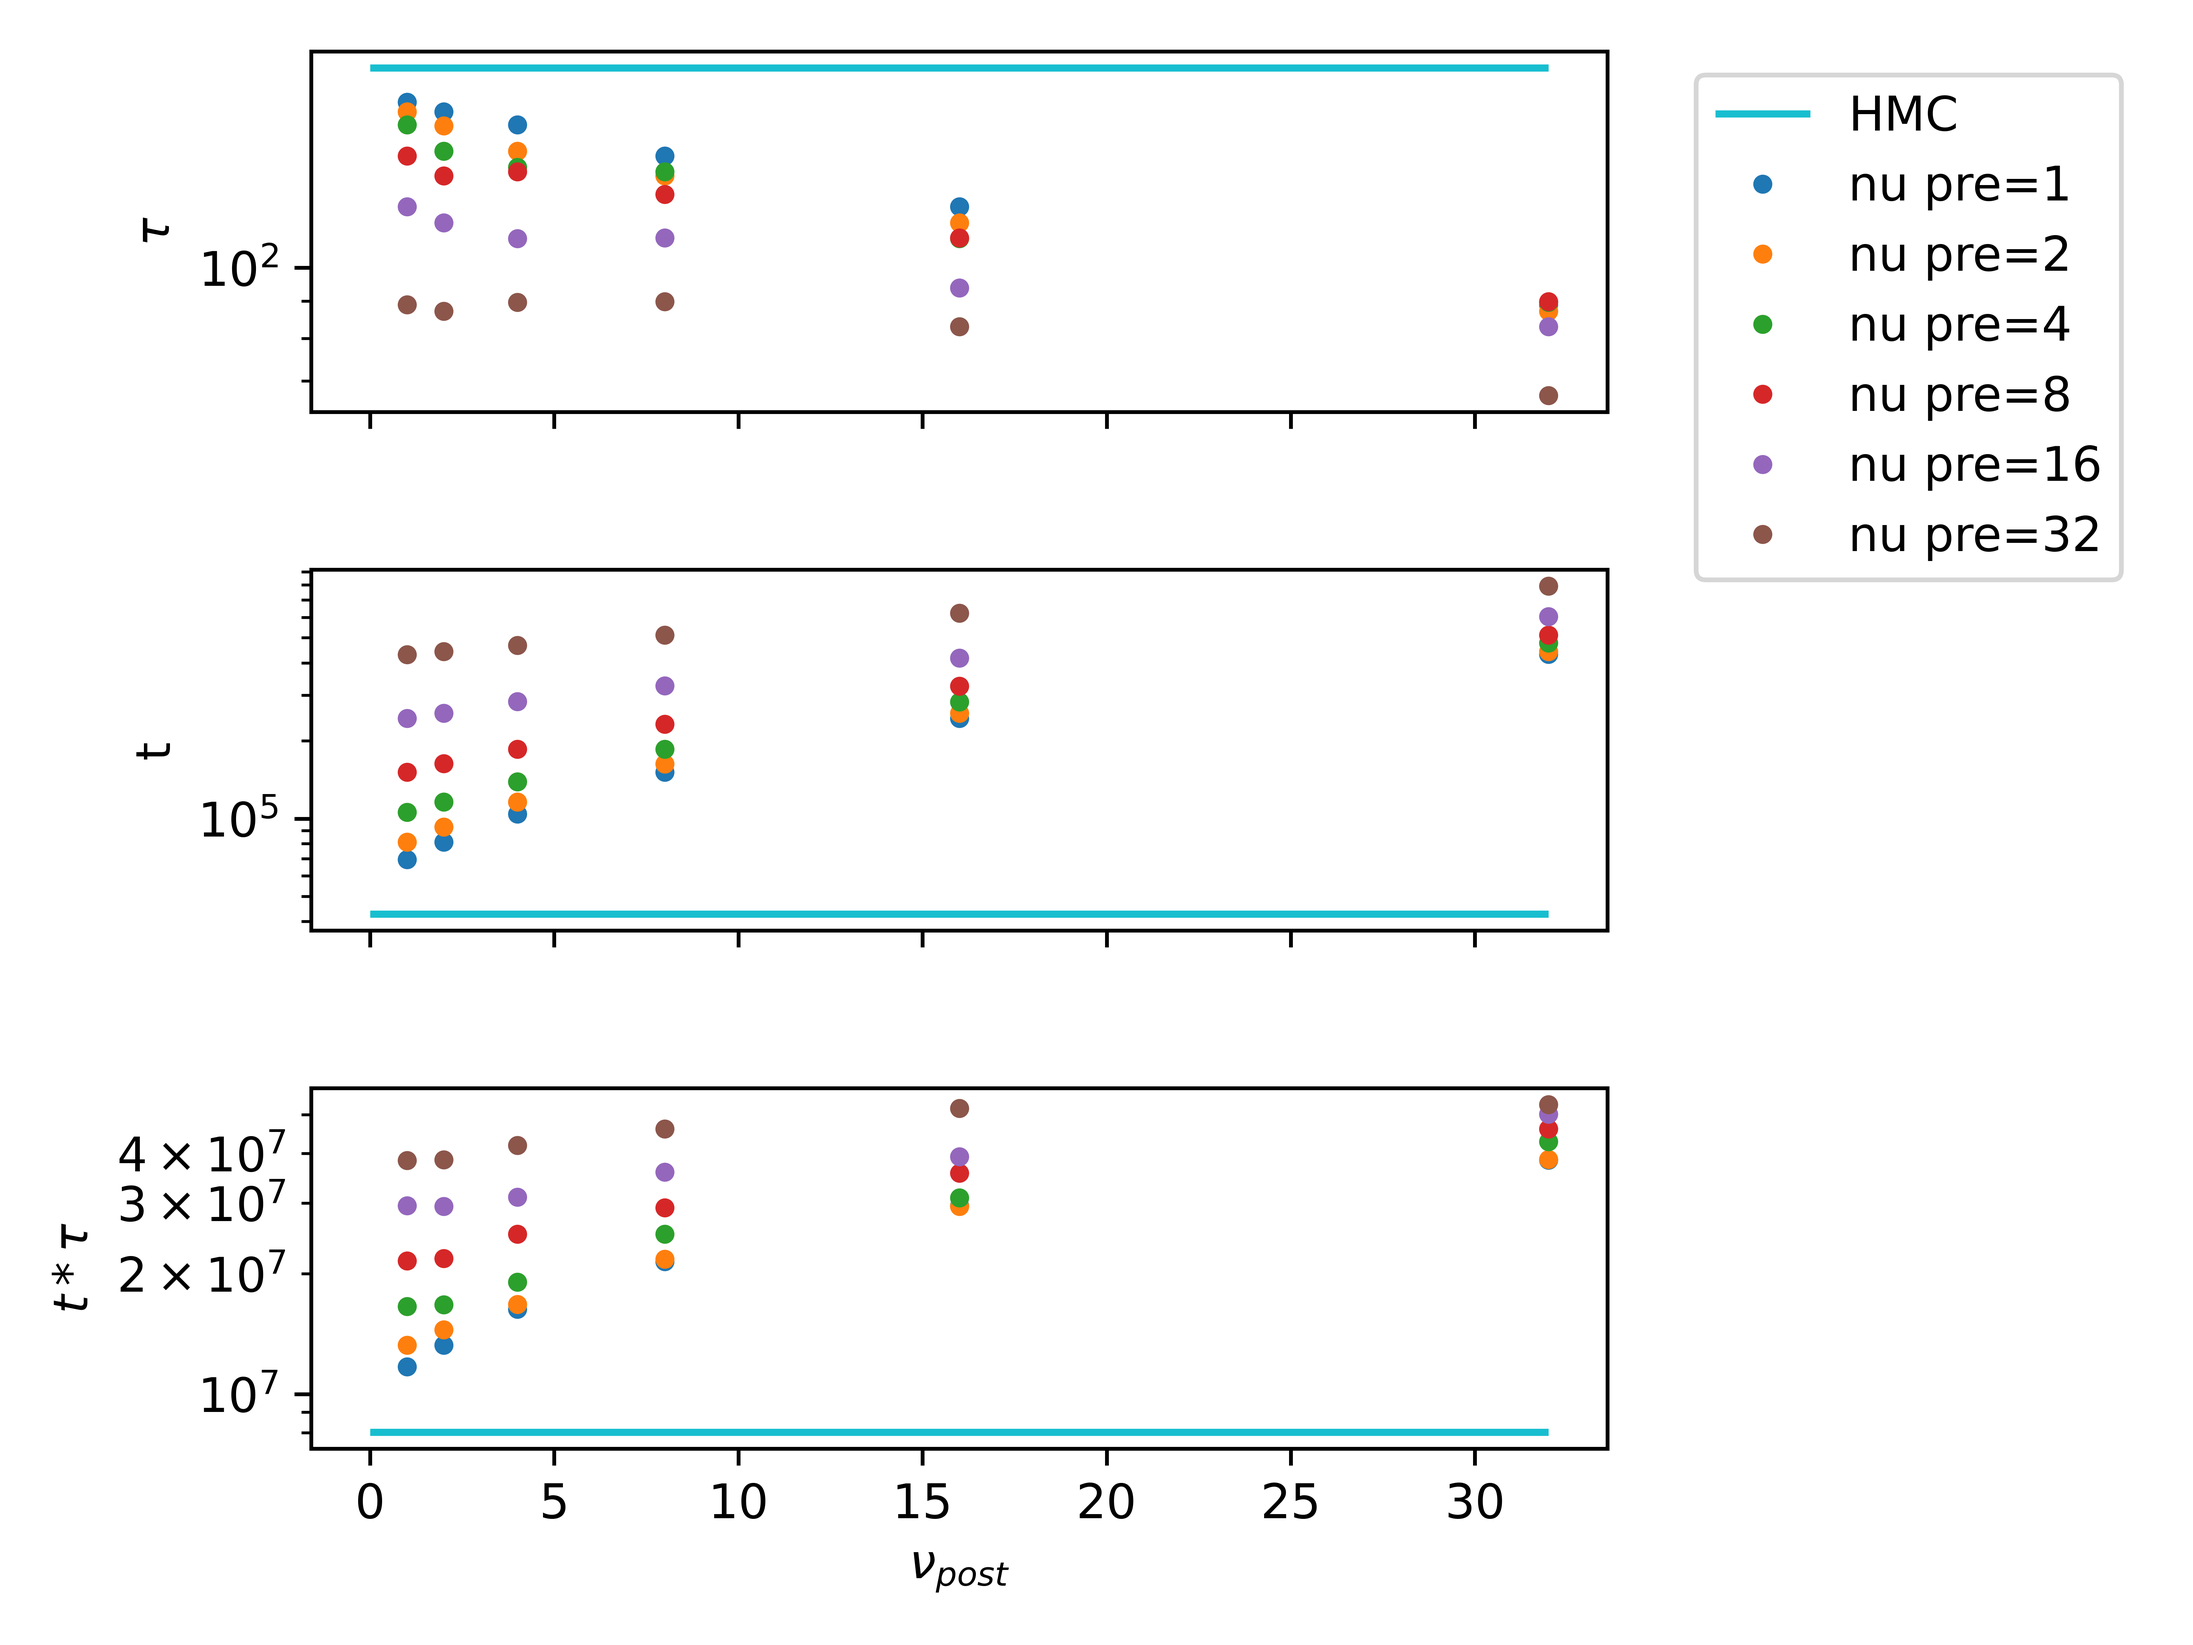
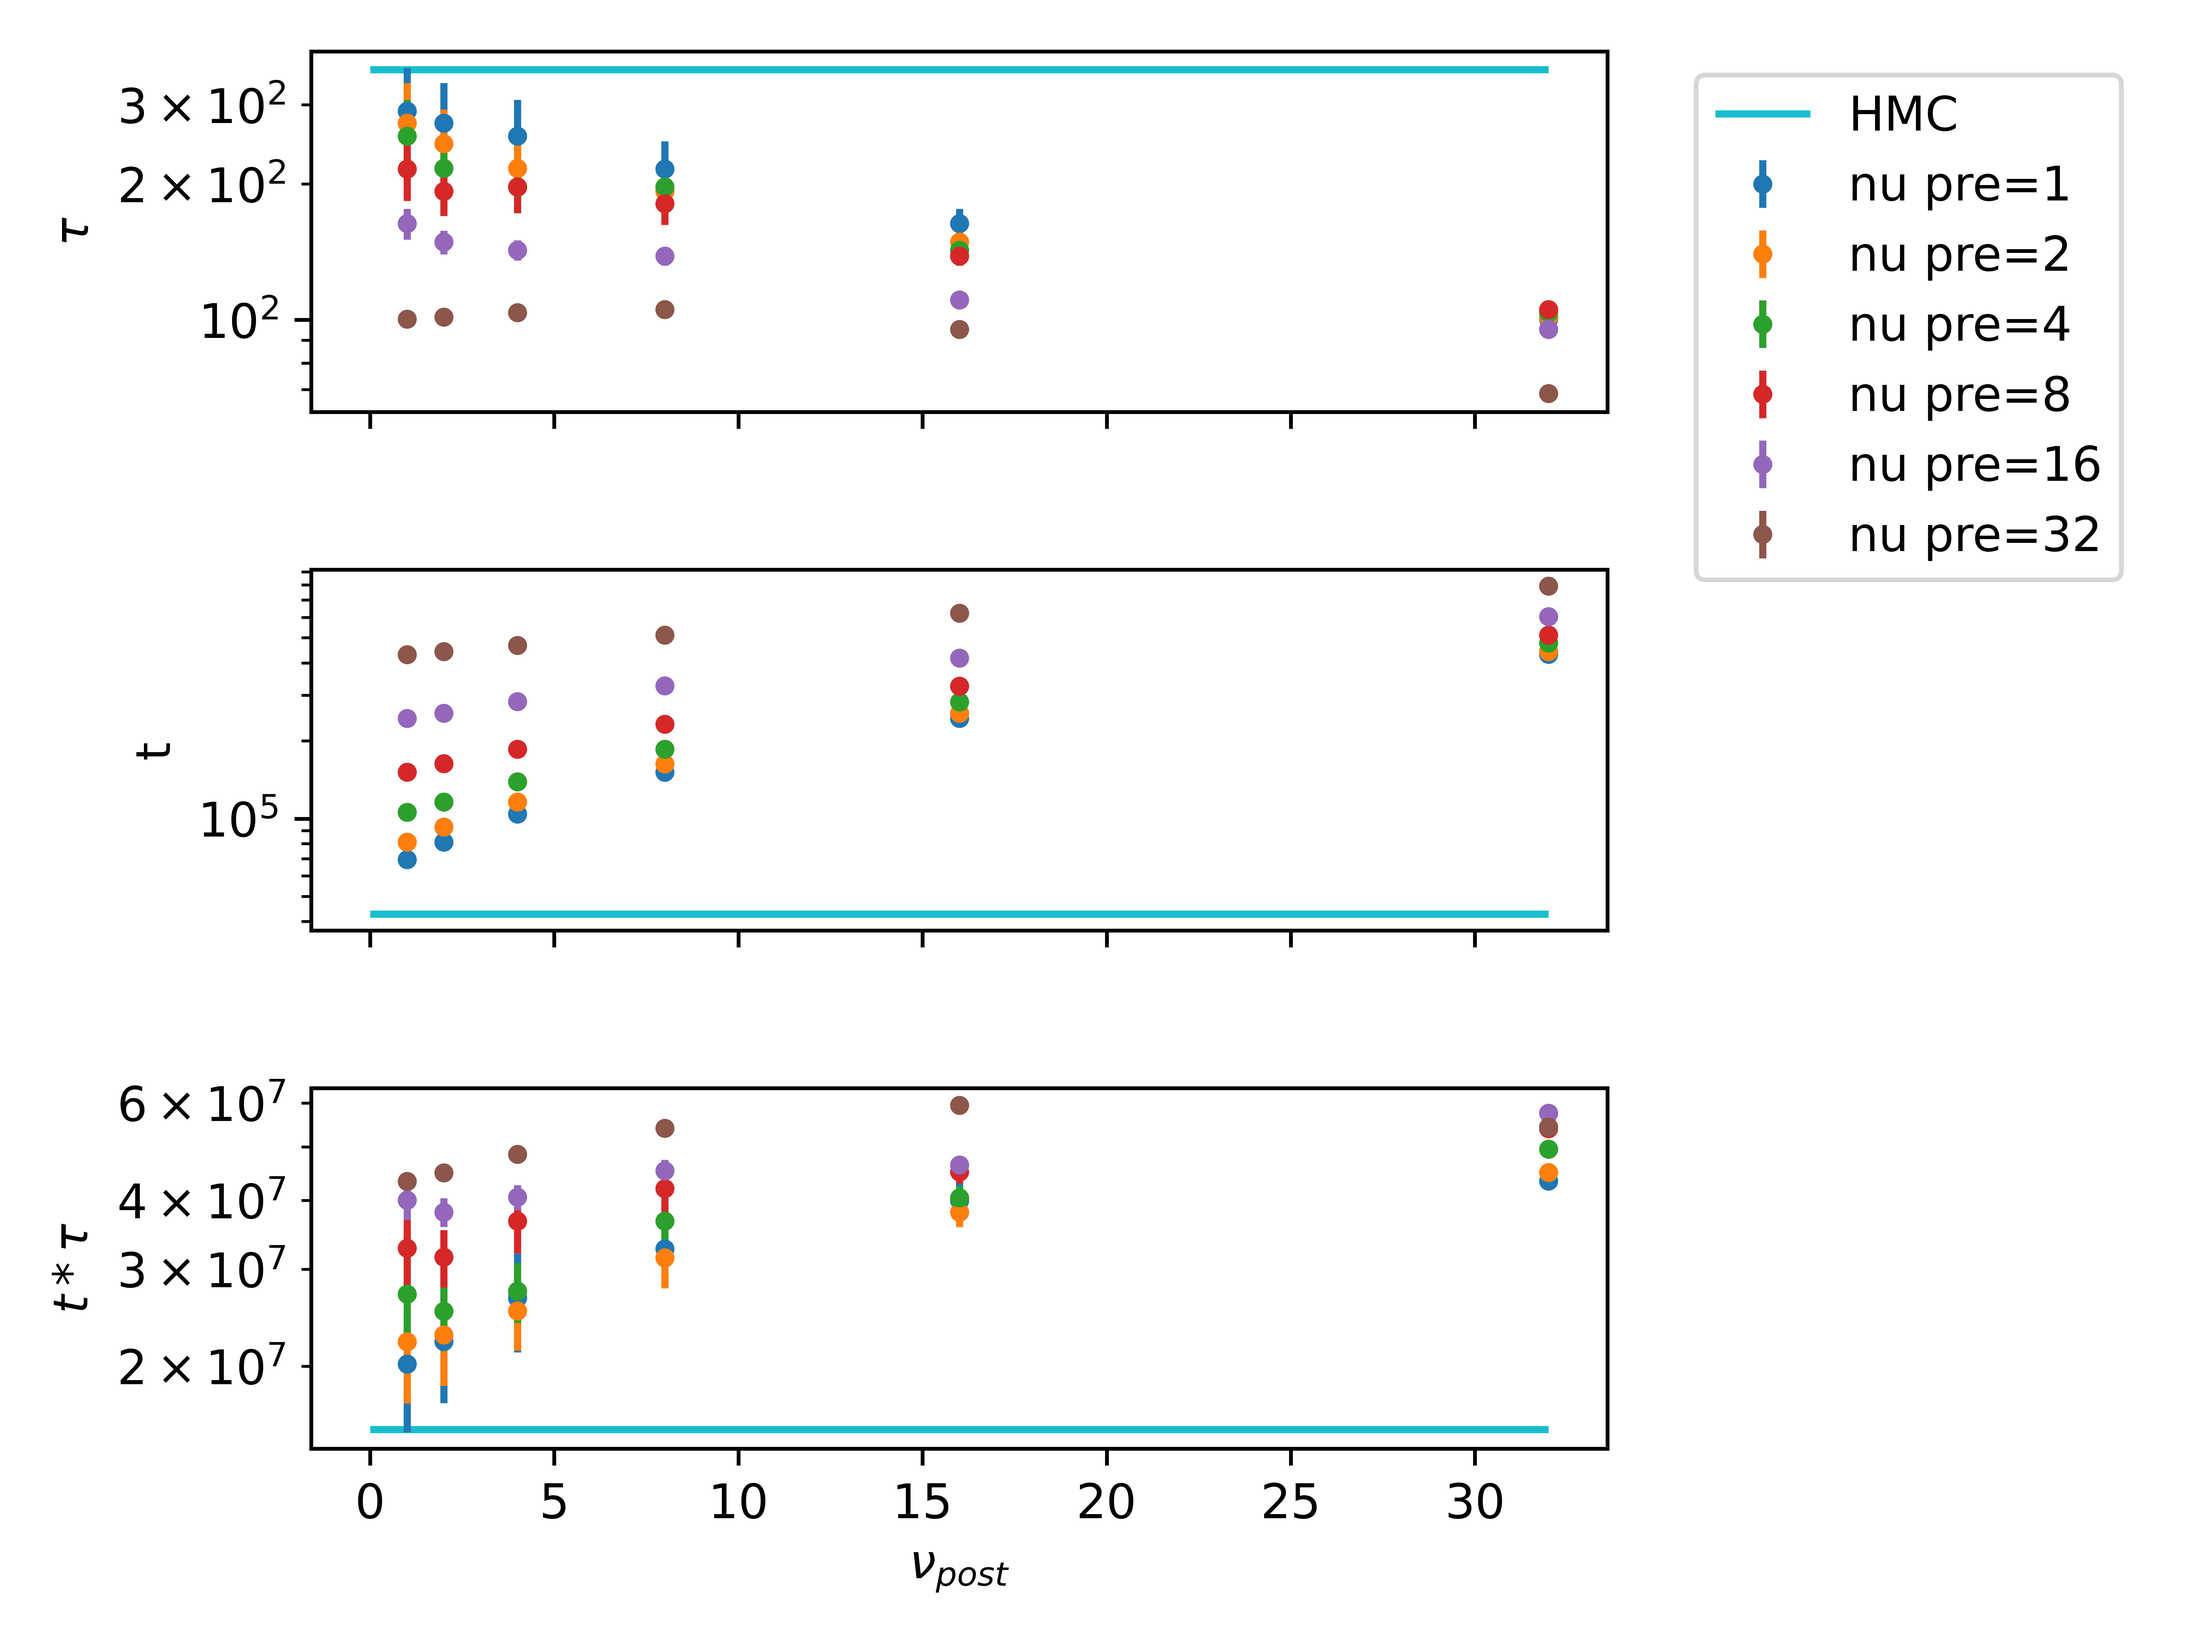
Fixed logic bug in MyTypes.cpp

diff --git a/src/main.cpp b/src/main.cpp
@@ -271,20 +271,24 @@ void test_multi_level_hmc() {
 }
 
 template<class configuration_type>
-void DoMultiLevelMeasurements(MultiLevelHMCGenerator<configuration_type> &Gen, const std::string &out_filename) {
-    HighFive::File out_file(out_filename,
-                            HighFive::File::ReadWrite | HighFive::File::Create | HighFive::File::Truncate);
-    Gen.dump_observable(&BaseModel<VectorX>::get_magnetization, "magnetization", out_file);
-    Gen.analyze_dataset("magnetization", out_file, 100, 200, 200);
-    Gen.dump_observable(&BaseModel<VectorX>::get_magnetization_squared, "magnetization_squared", out_file);
-    Gen.analyze_dataset("magnetization_squared", out_file, 100, 200, 200);
-    Gen.dump_observable(&BaseModel<VectorX>::get_energy, "energy", out_file);
-    Gen.analyze_dataset("energy", out_file, 100, 200, 200);
-    Gen.dump_observable(&BaseModel<VectorX>::get_energy_squared, "energy_squared", out_file);
-    Gen.analyze_dataset("energy_squared", out_file, 100, 200, 200);
+void DoMultiLevelMeasurements(MultiLevelHMCGenerator<configuration_type> &Gen, const std::string &out_filename,
+                              bool remeasure) {
+    if (remeasure) {
+        HighFive::File out_file(out_filename,
+                                HighFive::File::ReadWrite | HighFive::File::Create | HighFive::File::Truncate);
+        Gen.dump_observable(&BaseModel<VectorX>::get_magnetization, "magnetization", out_file);
+        Gen.dump_observable(&BaseModel<VectorX>::get_magnetization_squared, "magnetization_squared", out_file);
+        Gen.dump_observable(&BaseModel<VectorX>::get_energy, "energy", out_file);
+        Gen.dump_observable(&BaseModel<VectorX>::get_energy_squared, "energy_squared", out_file);
+    }
+    HighFive::File out_file(out_filename, HighFive::File::ReadWrite);
+    Gen.analyze_dataset("magnetization", out_file, 100, 200, 400);
+    Gen.analyze_dataset("magnetization_squared", out_file, 100, 200, 400);
+    Gen.analyze_dataset("energy", out_file, 100, 200, 400);
+    Gen.analyze_dataset("energy_squared", out_file, 100, 200, 400);
 }
 
-void DoMultiLevelMeasurementsFromFile(std::string filename) {
+void DoMultiLevelMeasurementsFromFile(std::string filename, bool remeasure) {
 
     if (!filename.starts_with('/')) {
         filename = std::string(DATA_DIR).append(filename);
@@ -298,14 +302,19 @@ void DoMultiLevelMeasurementsFromFile(std::string filename) {
 
     filename.insert(filename.rfind('/') + 1, "out_");
     std::string out_filename{filename};
-    DoMultiLevelMeasurements(mygen, out_filename);
+    DoMultiLevelMeasurements(mygen, out_filename, remeasure);
 
 
 }
 
-void DoMultiLevelMeasurementsFromDir(const std::string &dirname) {
+void DoMultiLevelMeasurementsFromDir(const std::string &dirname, bool remeasure) {
     for (const auto &file: std::filesystem::directory_iterator(std::string(DATA_DIR).append(dirname))) {
-        DoMultiLevelMeasurementsFromFile(file.path());
+        if (std::string(file.path().filename()).starts_with("out")) {
+            continue;
+        }
+        if (std::string(file.path().filename()).ends_with(".h5")) {
+            DoMultiLevelMeasurementsFromFile(file.path(), remeasure);
+        }
     }
 }
 
@@ -376,10 +385,10 @@ int main([[maybe_unused]] int argc, [[maybe_unused]] char *argv[]) {
     //test_HMC(std::string(DATA_DIR).append("HMCTest1.dat"));
     //test_multi_level_hmc();
     //test_hmc_measurements();
-    //DoMultiLevelMeasurementsFromDir(
-    //        std::string("gs_16_CB_ga_2_levels_2"));
-    HMCCriticalSimulation(16, 6, 1. / 6.);
-    size_t i{1};
+    DoMultiLevelMeasurementsFromDir(
+            std::string("gs_16_CB_ga_2_levels_2"), false);
+    //HMCCriticalSimulation(16, 6, 1. / 6.);
+    /*size_t i{1};
     for (size_t l = 1; l < 64; l *= 2) {
         for (size_t m = 1; m < 64; m *= 2) {
             MultiLevelCriticalSimulation(16, {0, l}, {1, m},
@@ -387,7 +396,7 @@ int main([[maybe_unused]] int argc, [[maybe_unused]] char *argv[]) {
                                          {6, 6},
                                          {1. / 6., 1. / 6.}, i++);
         }
-    }
+    }*/
     //return test_hip();
 }
 

diff --git a/plot/plot.py b/plot/plot.py
@@ -149,6 +149,8 @@ def base_plot(sub_folder_name="std_hmc/"):
 
 def crit_int_auto_correlation_plot(sub_folder_name, observable_name=magnetization_name):
     int_auto_correlation_time = []
+    int_auto_correlation_time_bias = []
+    int_auto_correlation_time_stat_error = []
     gamma = []
     tick_time = []
     interpolation_type = []
@@ -168,6 +170,9 @@ def crit_int_auto_correlation_plot(sub_folder_name, observable_name=magnetizatio
             if magnetization_name in measurements_group:
                 observable_group = measurements_group.get(observable_name)
                 int_auto_correlation_time.append(observable_group.attrs["int_auto_correlation_time"])
+                int_auto_correlation_time_bias.append(observable_group.attrs["int_auto_correlation_time_bias"])
+                int_auto_correlation_time_stat_error.append(
+                    observable_group.attrs["int_auto_correlation_time_stat_error"])
                 gamma.append(level0_group.attrs["gamma"])
                 tick_time.append(level0_group.attrs["tick_time"])
                 interpolation_type.append(level0_group.attrs["inter_type"])
@@ -182,6 +187,8 @@ def crit_int_auto_correlation_plot(sub_folder_name, observable_name=magnetizatio
                     nu_post_level1.append(-1)
 
     int_auto_correlation_time = np.array(int_auto_correlation_time)
+    int_auto_correlation_time_bias = np.array(int_auto_correlation_time_bias)
+    int_auto_correlation_time_stat_error = np.array(int_auto_correlation_time_stat_error)
     gamma = np.array(gamma)
     tick_time = np.array(tick_time)
     interpolation_type = np.array(interpolation_type)
@@ -208,14 +215,16 @@ def crit_int_auto_correlation_plot(sub_folder_name, observable_name=magnetizatio
         indices = nu_pre_level1 == i
         x_plot = nu_post_level1[indices]
         y1_plot = int_auto_correlation_time[indices]
+        y1_error = np.sqrt(int_auto_correlation_time_stat_error[indices]) + int_auto_correlation_time_bias[indices]
         y2_plot = tick_time[indices]
         if len(x_plot):
-            ax1_.plot(x_plot, y1_plot, marker='.', ls='', c=list(mcolors.TABLEAU_COLORS.values())[j],
-                      label=f"nu pre={i}")
+            ax1_.errorbar(x_plot, y1_plot, y1_error, marker='.', ls='', c=list(mcolors.TABLEAU_COLORS.values())[j],
+                          label=f"nu pre={i}")
 
             ax2_.plot(x_plot, y2_plot, marker='.', ls='', c=list(mcolors.TABLEAU_COLORS.values())[j])
 
-            ax3_.plot(x_plot, y1_plot * y2_plot, marker='.', ls='', c=list(mcolors.TABLEAU_COLORS.values())[j])
+            ax3_.errorbar(x_plot, y1_plot * y2_plot, y1_error * y2_plot, marker='.', ls='',
+                          c=list(mcolors.TABLEAU_COLORS.values())[j])
 
             j += 1
 

diff --git a/src/MyTypes/MyTypes.cpp b/src/MyTypes/MyTypes.cpp
@@ -68,10 +68,15 @@ HighFive::DataSet add_to_expandable_dataset(HighFive::Group &root, const std::st
 
         if (shape.size() == dims.size()) {
             for (int i = 0; i < shape.size(); ++i) {
+                bool is_resize_dim = false;
                 for (auto resize_dim: dims_to_resize) {
                     if (i == resize_dim) {
-                        continue;
+                        is_resize_dim = true;
+                        break;
                     }
+                }
+                if (is_resize_dim) {
+                    continue;
                 }
                 if (shape[i] != dims[i]) {
                     std::cerr << "Vector sizes not matching\n";
